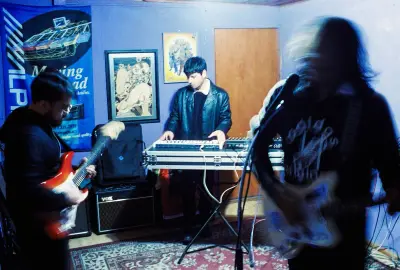
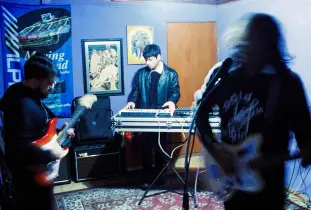
thumbs al tamano mostrado (311) y hero responsive 768/1080/1400

diff --git a/src/components/Hero/Hero.jsx b/src/components/Hero/Hero.jsx
@@ -1,4 +1,6 @@
 import photo06 from "../../assets/photos/photo06_hero.webp";
+import photo06Hero1080 from "../../assets/photos/photo06_hero_1080.webp";
+import photo06Hero768 from "../../assets/photos/photo06_hero_768.webp";
 import gifNav01 from "../../assets/GIF/gif_nav01.gif";
 import "./Hero.css";
 
@@ -8,6 +10,8 @@ function Hero() {
       <div className="hero-image-wrapper">
         <img
           src={photo06}
+          srcSet={`${photo06Hero768} 768w, ${photo06Hero1080} 1080w, ${photo06} 1400w`}
+          sizes="(min-width: 1200px) 1090px, 100vw"
           alt="Luz Fija - Vespucio"
           className="hero-image"
           fetchPriority="high"
